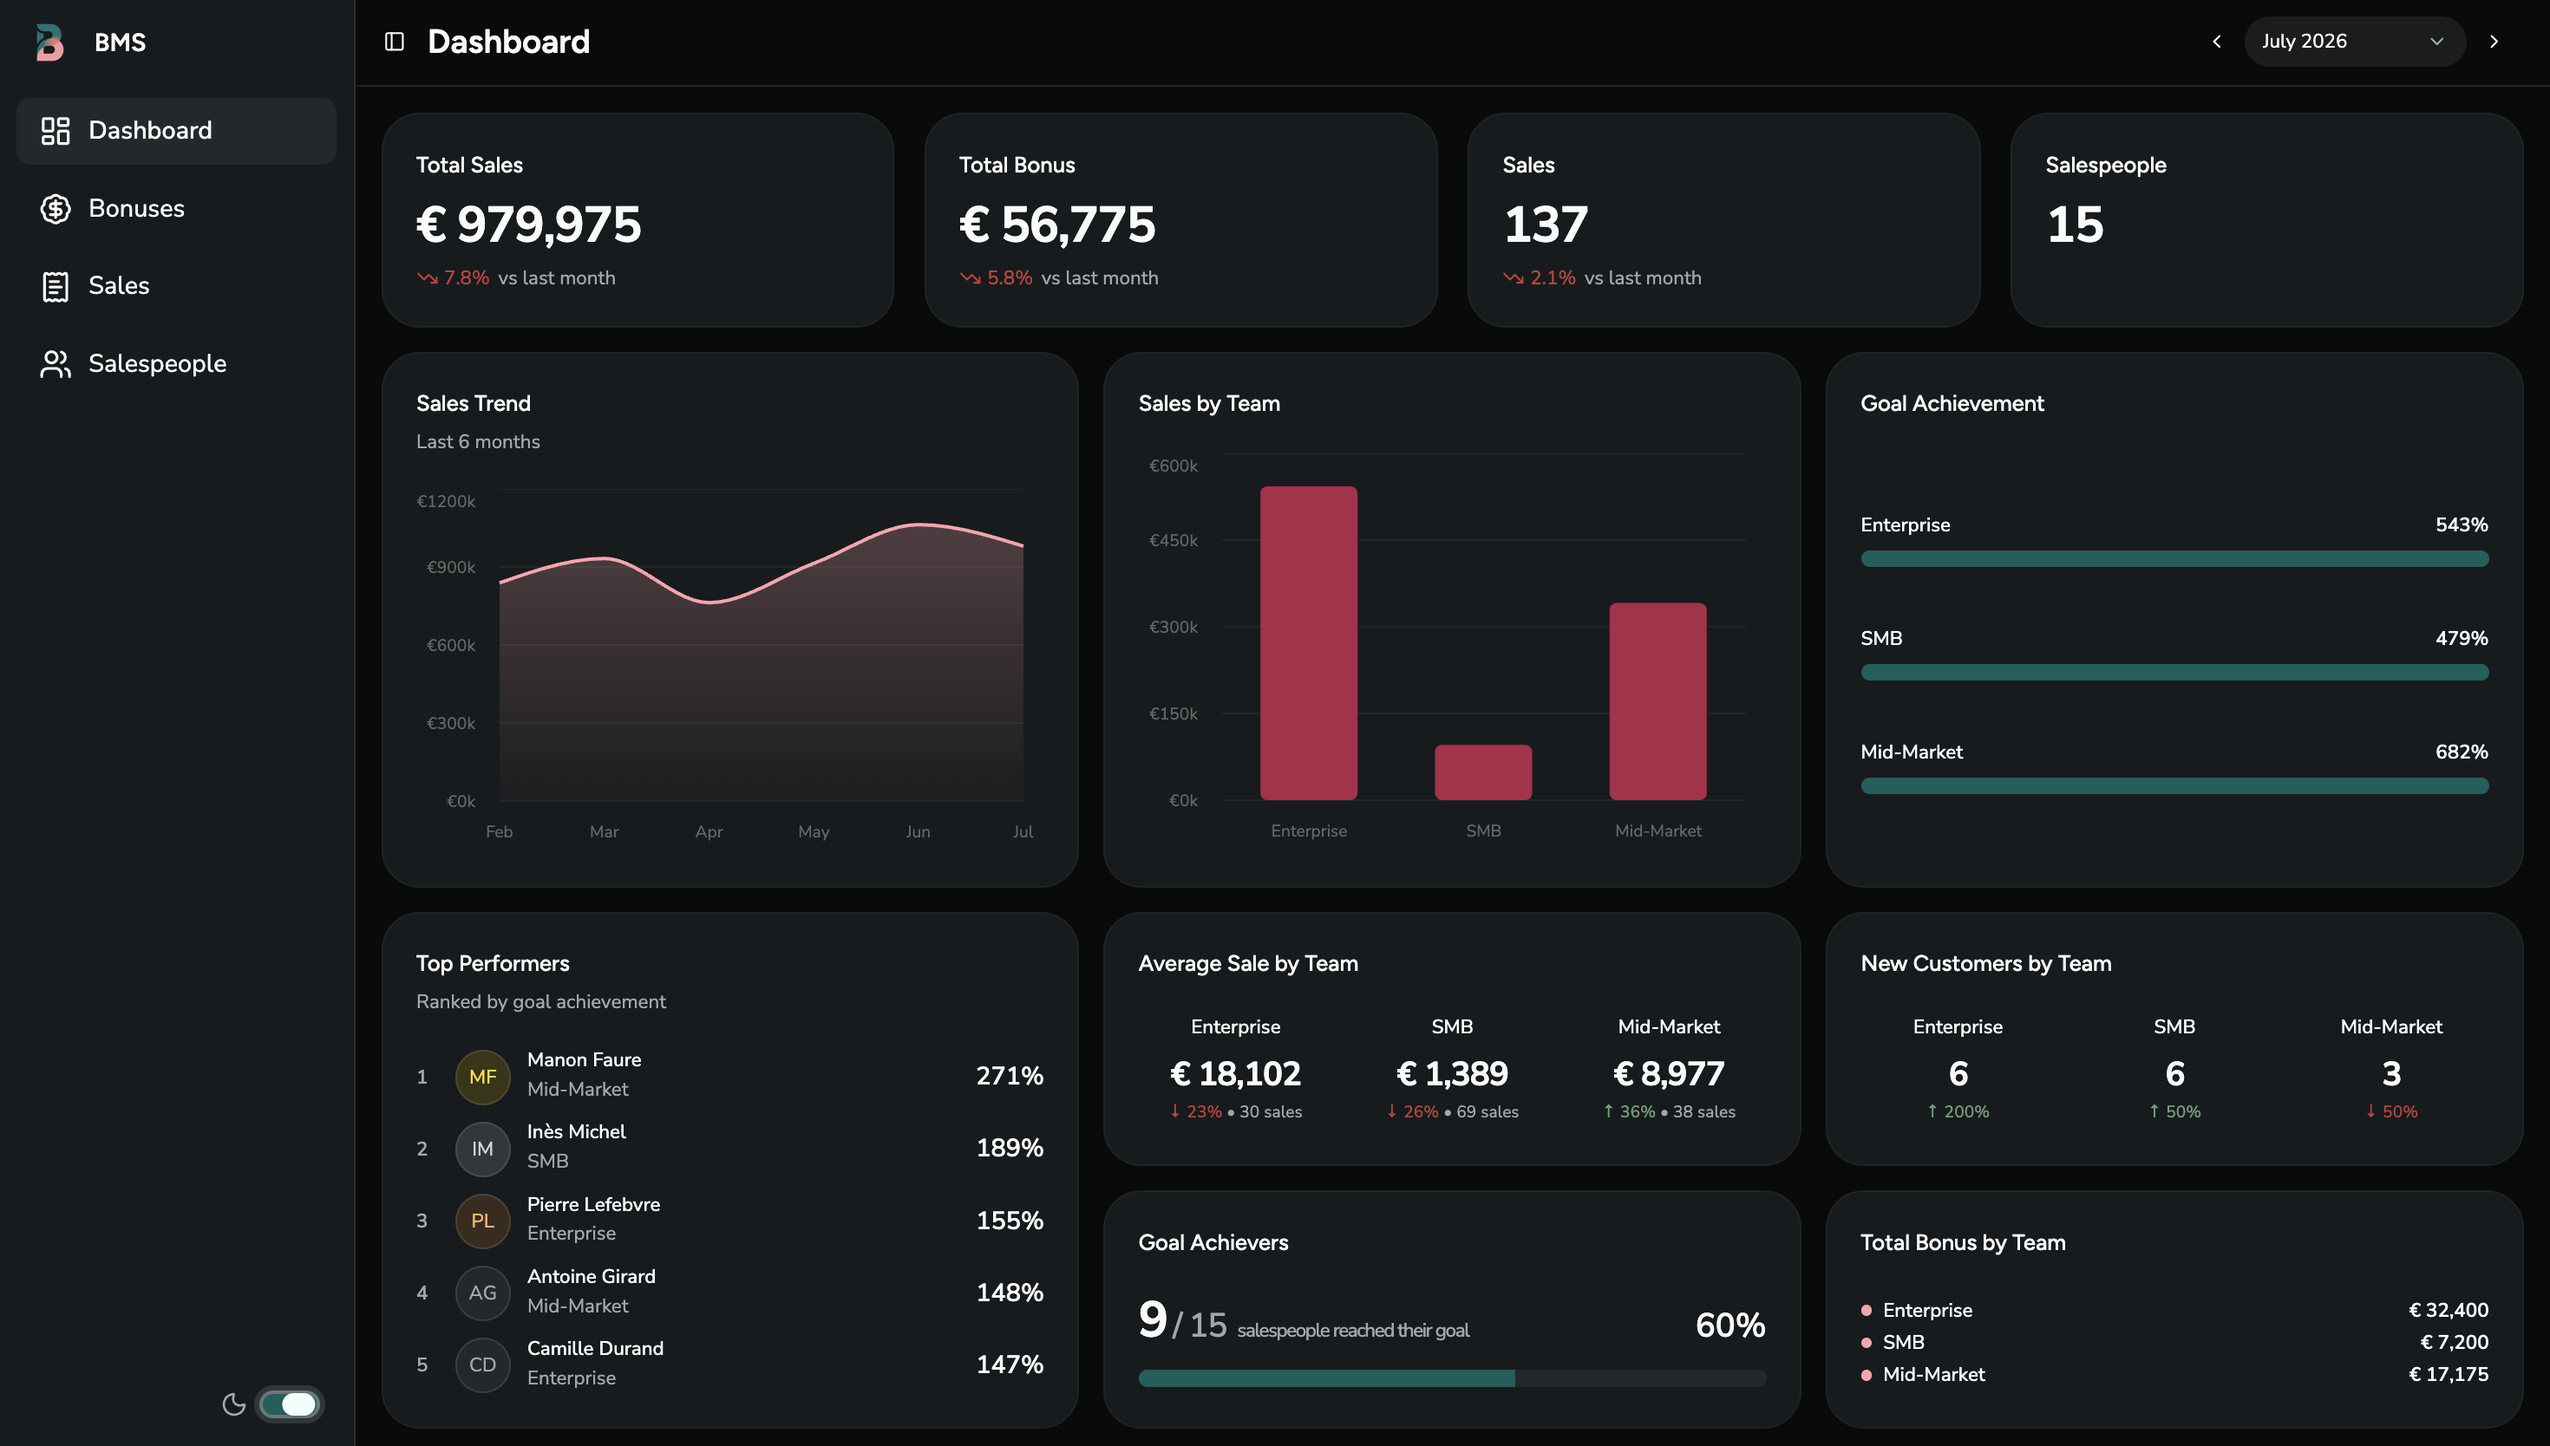
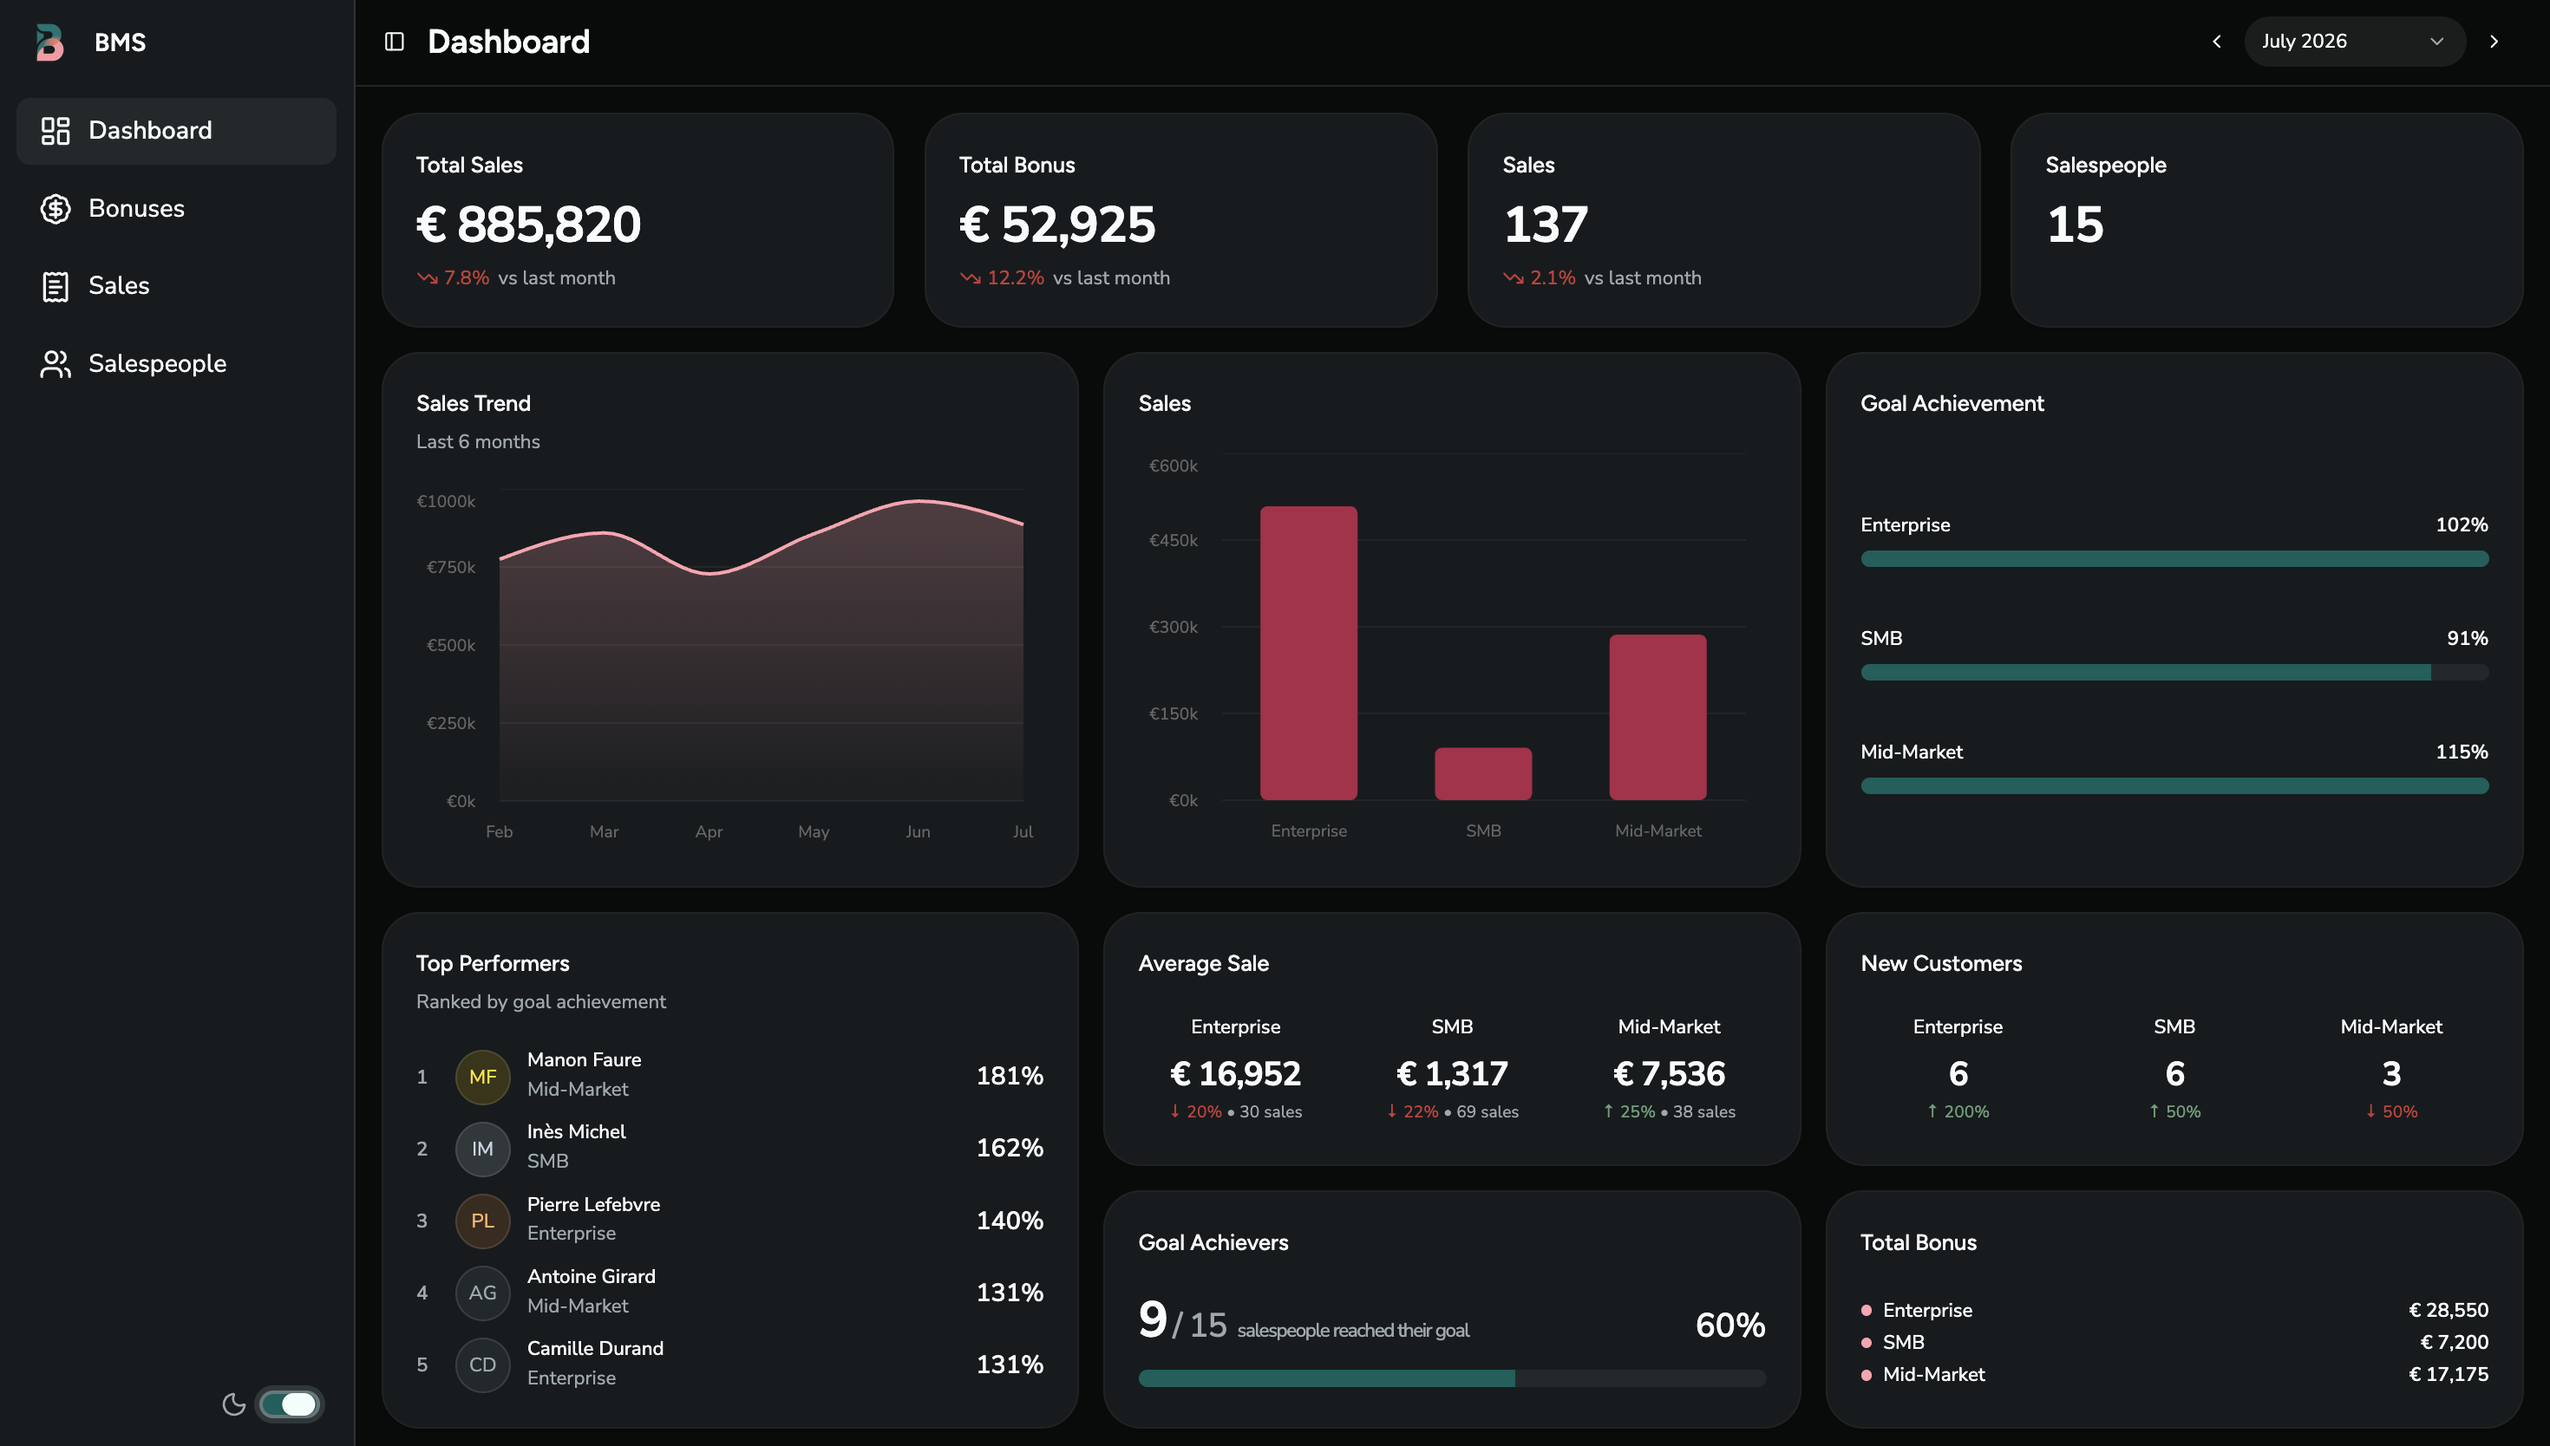
a few after deploy changes

diff --git a/frontend/src/components/dashboard/TopPerformersCard.tsx b/frontend/src/components/dashboard/TopPerformersCard.tsx
@@ -8,6 +8,7 @@ import {
 } from '@/components/ui/card'
 
 import type { TopPerformer } from '@/types/dashboard.types'
+import { Trophy } from 'lucide-react'
 
 interface TopPerformersCardProps {
   topPerformers: TopPerformer[]
@@ -35,42 +36,55 @@ const TopPerformersCard = ({ topPerformers }: TopPerformersCardProps) => {
       </CardHeader>
 
       <CardContent className="flex flex-1 flex-col justify-between gap-3 overflow-y-auto">
-        {topPerformers.map((person, index) => (
-          <div
-            key={person.salesperson_id}
-            className="flex items-center justify-between"
-          >
-            <div className="flex items-center gap-3">
-              <span className="w-4 text-sm font-semibold text-muted-foreground">
-                {index + 1}
-              </span>
+        {topPerformers.length === 0 ? (
+          <div className="flex flex-1 flex-col items-center justify-center text-center">
+            <Trophy className="mb-4 h-10 w-10 text-muted-foreground" />
 
-              <Avatar className="size-10">
-                <AvatarFallback
-                  className={
-                    avatarStyles[index + 1] ?? 'bg-muted text-muted-foreground'
-                  }
-                >
-                  {getInitials(person.name)}
-                </AvatarFallback>
-              </Avatar>
+            <p className="font-medium">No top performers yet</p>
 
-              <div>
-                <p className="font-medium leading-none">{person.name}</p>
+            <p className="mt-1 text-sm text-muted-foreground">
+              Top performers will appear once sales are registered.
+            </p>
+          </div>
+        ) : (
+          topPerformers.map((person, index) => (
+            <div
+              key={person.salesperson_id}
+              className="flex items-center justify-between"
+            >
+              <div className="flex items-center gap-3">
+                <span className="w-4 text-sm font-semibold text-muted-foreground">
+                  {index + 1}
+                </span>
 
-                <p className="mt-1 text-sm text-muted-foreground">
-                  {person.team}
+                <Avatar className="size-10">
+                  <AvatarFallback
+                    className={
+                      avatarStyles[index + 1] ??
+                      'bg-muted text-muted-foreground'
+                    }
+                  >
+                    {getInitials(person.name)}
+                  </AvatarFallback>
+                </Avatar>
+
+                <div>
+                  <p className="font-medium leading-none">{person.name}</p>
+
+                  <p className="mt-1 text-sm text-muted-foreground">
+                    {person.team}
+                  </p>
+                </div>
+              </div>
+
+              <div className="text-right">
+                <p className="text-lg font-semibold tabular-nums">
+                  {Math.round(person.goal_achievement_pct)}%
                 </p>
               </div>
             </div>
-
-            <div className="text-right">
-              <p className="text-lg font-semibold tabular-nums">
-                {Math.round(person.goal_achievement_pct)}%
-              </p>
-            </div>
-          </div>
-        ))}
+          ))
+        )}
       </CardContent>
     </Card>
   )

diff --git a/frontend/src/pages/Salespeople.tsx b/frontend/src/pages/Salespeople.tsx
@@ -33,15 +33,7 @@ const Salespeople = () => {
     order,
   })
 
-  if (isPending && !data) {
-    return (
-      <div className="flex flex-1 items-center justify-center">
-        <Spinner />
-      </div>
-    )
-  }
-
-  if (isError || !data) {
+  if (isError) {
     return <p>Failed to load salespeople.</p>
   }
 
@@ -58,21 +50,27 @@ const Salespeople = () => {
           filterOptions={TEAM_OPTIONS}
         />
 
-        <DataTable
-          columns={getSalespeopleTableColumns({
-            sort,
-            order,
-            onSortChange: (newSort, newOrder) => {
-              setSort(newSort)
-              setOrder(newOrder)
-              setPage(1)
-            },
-          })}
-          data={data.items}
-          page={page}
-          totalPages={data.total_pages}
-          onPageChange={setPage}
-        />
+        {isPending && !data ? (
+          <div className="flex h-[500px] items-center justify-center">
+            <Spinner />
+          </div>
+        ) : (
+          <DataTable
+            columns={getSalespeopleTableColumns({
+              sort,
+              order,
+              onSortChange: (newSort, newOrder) => {
+                setSort(newSort)
+                setOrder(newOrder)
+                setPage(1)
+              },
+            })}
+            data={data?.items ?? []}
+            page={page}
+            totalPages={data?.total_pages ?? 1}
+            onPageChange={setPage}
+          />
+        )}
       </div>
     </div>
   )

diff --git a/frontend/src/pages/Sales.tsx b/frontend/src/pages/Sales.tsx
@@ -45,14 +45,7 @@ const Sales = () => {
     order,
   })
 
-  if (isPending && !data) {
-    return (
-      <div className="flex flex-1 items-center justify-center">
-        <Spinner />
-      </div>
-    )
-  }
-  if (isError || !data) {
+  if (isError) {
     return <p>Failed to load sales.</p>
   }
 
@@ -69,21 +62,27 @@ const Sales = () => {
           filterOptions={TEAM_OPTIONS}
         />
 
-        <DataTable
-          columns={getSalesTableColumns({
-            sort,
-            order,
-            onSortChange: (newSort, newOrder) => {
-              setSort(newSort)
-              setOrder(newOrder)
-              setPage(1)
-            },
-          })}
-          data={data.items}
-          page={page}
-          totalPages={data.total_pages}
-          onPageChange={setPage}
-        />
+        {isPending && !data ? (
+          <div className="flex h-[500px] items-center justify-center">
+            <Spinner />
+          </div>
+        ) : (
+          <DataTable
+            columns={getSalesTableColumns({
+              sort,
+              order,
+              onSortChange: (newSort, newOrder) => {
+                setSort(newSort)
+                setOrder(newOrder)
+                setPage(1)
+              },
+            })}
+            data={data?.items ?? []}
+            page={page}
+            totalPages={data?.total_pages ?? 1}
+            onPageChange={setPage}
+          />
+        )}
       </div>
 
       <footer className="mt-auto pt-5">

diff --git a/frontend/src/pages/Bonuses.tsx b/frontend/src/pages/Bonuses.tsx
@@ -3,6 +3,7 @@ import { useEffect, useMemo, useState } from 'react'
 import DataTable from '@/components/ui/data-table'
 import { getBonusesTableColumns } from '@/components/bonus/BonusTableColumns'
 import TableToolbar from '@/components/ui/table-toolbar'
+import Spinner from '@/components/ui/spinner'
 import useDebounce from '@/hooks/use-debounce'
 import { useBonuses } from '@/hooks/use-bonuses'
 import { usePeriod } from '@/providers/PeriodProvider'
@@ -53,11 +54,7 @@ const Bonuses = () => {
     [sort, order],
   )
 
-  if (isPending) {
-    return <p>Loading...</p>
-  }
-
-  if (isError || !data) {
+  if (isError) {
     return <p>Failed to load bonuses.</p>
   }
 
@@ -74,13 +71,19 @@ const Bonuses = () => {
           filterOptions={TEAM_OPTIONS}
         />
 
-        <DataTable
-          columns={columns}
-          data={data.items}
-          page={page}
-          totalPages={data.total_pages}
-          onPageChange={setPage}
-        />
+        {isPending && !data ? (
+          <div className="flex h-[500px] items-center justify-center">
+            <Spinner />
+          </div>
+        ) : (
+          <DataTable
+            columns={columns}
+            data={data?.items ?? []}
+            page={page}
+            totalPages={data?.total_pages ?? 1}
+            onPageChange={setPage}
+          />
+        )}
       </div>
     </div>
   )

diff --git a/frontend/src/components/dashboard/TotalBonusByTeamCard.tsx b/frontend/src/components/dashboard/TotalBonusByTeamCard.tsx
@@ -11,7 +11,7 @@ const TotalBonusByTeamCard = ({ bonusByTeam }: TotalBonusByTeamCardProps) => {
   return (
     <Card className="flex h-full flex-col">
       <CardHeader>
-        <CardTitle>Total Bonus by Team</CardTitle>
+        <CardTitle>Total Bonus</CardTitle>
       </CardHeader>
 
       <CardContent className="flex flex-1 flex-col justify-evenly">

diff --git a/frontend/src/components/dashboard/NewCustomersCard.tsx b/frontend/src/components/dashboard/NewCustomersCard.tsx
@@ -11,7 +11,7 @@ const NewCustomersCard = ({ newCustomersByTeam }: NewCustomersCardProps) => {
   return (
     <Card className="lg:h-full">
       <CardHeader>
-        <CardTitle>New Customers by Team</CardTitle>
+        <CardTitle>New Customers</CardTitle>
       </CardHeader>
 
       <CardContent className="grid grid-cols-3 gap-4">

diff --git a/frontend/src/components/dashboard/AverageSaleCard.tsx b/frontend/src/components/dashboard/AverageSaleCard.tsx
@@ -10,7 +10,7 @@ const AverageSaleCard = ({ averageSaleByTeam }: AverageSaleCardProps) => {
   return (
     <Card className="lg:h-full">
       <CardHeader>
-        <CardTitle>Average Sale by Team</CardTitle>
+        <CardTitle>Average Sale</CardTitle>
       </CardHeader>
 
       <CardContent className="grid grid-cols-3 gap-4">

diff --git a/frontend/src/components/dashboard/SalesByTeamCard.tsx b/frontend/src/components/dashboard/SalesByTeamCard.tsx
@@ -13,7 +13,7 @@ const SalesByTeamCard = ({ salesByTeam }: SalesByTeamCardProps) => {
   return (
     <Card className="h-96">
       <CardHeader>
-        <CardTitle>Sales by Team</CardTitle>
+        <CardTitle>Sales</CardTitle>
       </CardHeader>
 
       <CardContent className="flex flex-1 flex-col">

diff --git a/frontend/src/services/api.ts b/frontend/src/services/api.ts
@@ -1,7 +1,5 @@
 import axios from 'axios'
 
-console.log('API URL:', import.meta.env.VITE_API_URL)
-
 const api = axios.create({
   baseURL: import.meta.env.VITE_API_URL,
   headers: {

diff --git a/backend/app/services/dashboard.py b/backend/app/services/dashboard.py
@@ -149,7 +149,12 @@ async def get_dashboard_summary(year: int, month: int) -> DashboardResponse:
         )
         team_total_bonus = sum((item["bonus"] for item in team_results), Decimal(0))
         team_sales_count = sum(item["sales_count"] for item in team_results)
-        achievement_pct = _achievement_pct(team_total_sales, TEAM_MONTHLY_GOALS[team])
+        team_salespeople_count = len(team_results)
+        team_goal = TEAM_MONTHLY_GOALS[team] * team_salespeople_count
+        achievement_pct = _achievement_pct(
+            team_total_sales,
+            team_goal,
+        )
         team_average_sale = (
             (team_total_sales / team_sales_count).quantize(
                 Decimal("0.01"), rounding=ROUND_HALF_UP

diff --git a/README.md b/README.md
@@ -21,9 +21,10 @@ The platform is designed to evolve into a multi-role system supporting Finance, 
 
 ## Live Demo
 
-- **Frontend:** https://your-demo-url.com
-- **API Documentation:** https://your-api-url.com/docs
-
+| Resource | URL |
+|----------|-----|
+| 🌐 Application | https://bonus-management-system.vercel.app/ |
+| 📘 API Documentation (Swagger) | https://bonusmanagementsystem-production.up.railway.app/docs |
 ---
 
 ## Preview
